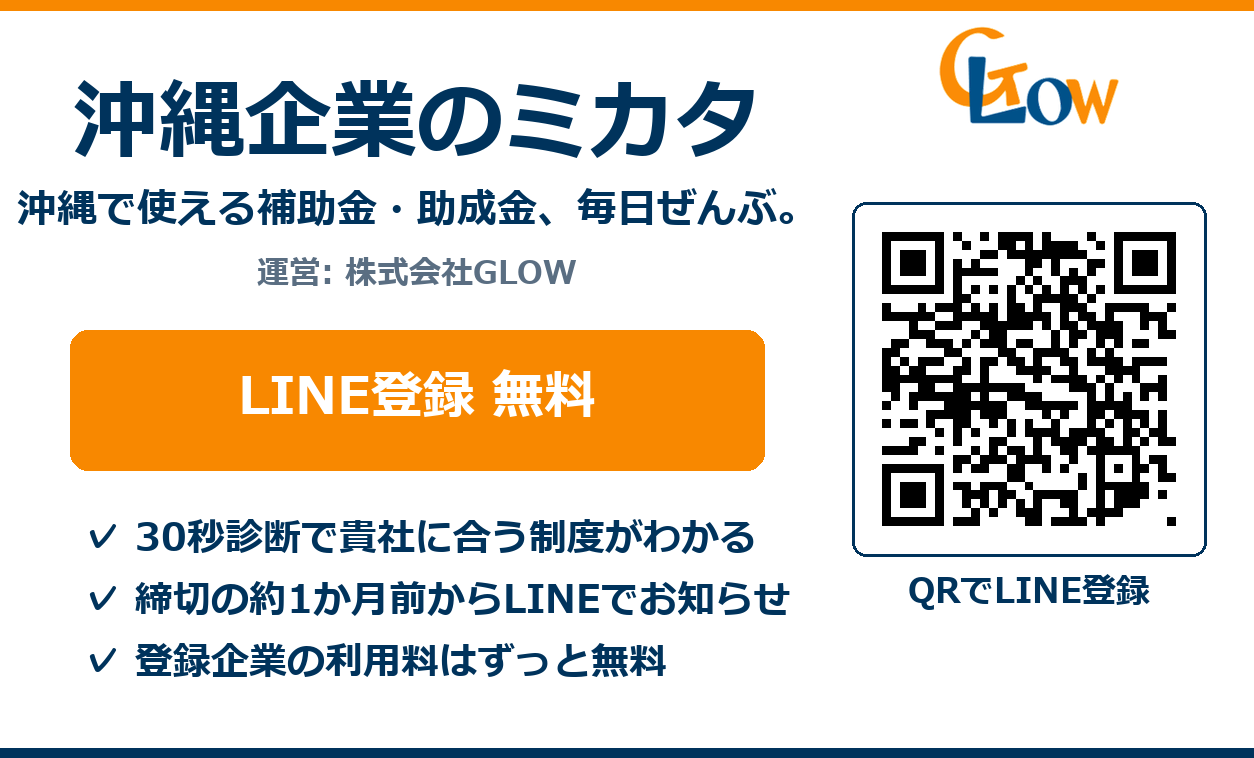
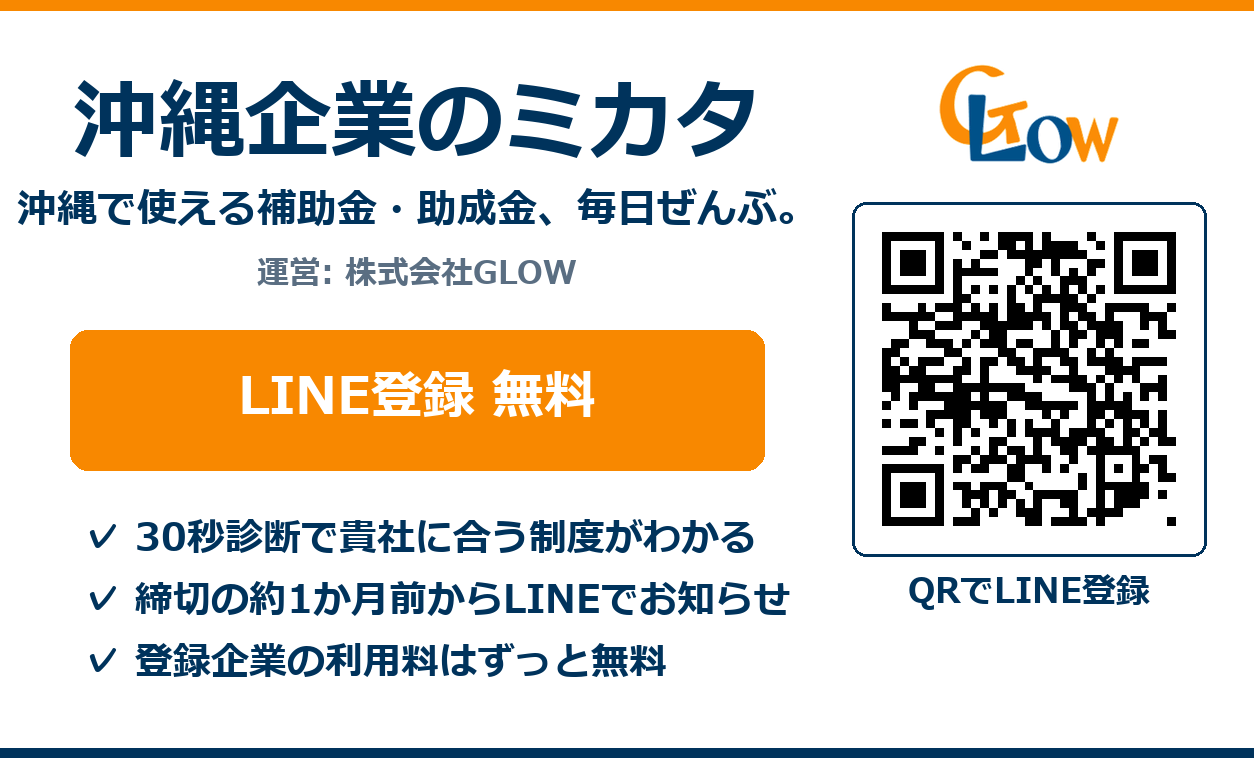
fix: GLOWロゴの位置を下げる(紺版・白版とも/小柳さん指示)

Changed region(s): [[0.7464, 0.0303, 0.9019, 0.2124]]

diff --git a/scripts/generate_card.py b/scripts/generate_card.py
@@ -102,7 +102,7 @@ def card_meishi():
            label, font=f_label, fill=WHITE)
     # GLOWロゴ(光彩つき)をQRの上に
     lg = logo_with_glow(180)
-    im.paste(lg, (int(qr_cx - lg.width / 2), 18), lg)
+    im.paste(lg, (int(qr_cx - lg.width / 2), 52), lg)
     os.makedirs(OUT, exist_ok=True)
     im.save(os.path.join(OUT, "card_meishi.png"))
     print("[ok] card_meishi.png (1254x758 / 91x55mm 350dpi)")
@@ -116,7 +116,7 @@ def card_a6():
     d.rectangle([0, 0, W, 14], fill=ORANGE)
     # GLOWロゴ(光彩つき)を最上部中央に
     lg = logo_with_glow(230)
-    im.paste(lg, (int((W - lg.width) / 2), 34), lg)
+    im.paste(lg, (int((W - lg.width) / 2), 75), lg)
     center(d, "御社が使える補助金、", font(96), 250, W, WHITE)
     center(d, "眠っていませんか?", font(96), 370, W, WHITE)
     center(d, "沖縄で使える補助金・助成金を毎日自動チェック", font(46), 530, W, (200, 214, 228))

diff --git a/scripts/generate_card_white.py b/scripts/generate_card_white.py
@@ -53,7 +53,7 @@ im.paste(qr, (qx, qy))
 label = "QRでLINE登録"; f_l = font(34); qcx = qx + 165
 d.text((qcx - d.textlength(label, font=f_l) / 2, qy + 352), label, font=f_l, fill=NAVY)
 lg = logo(180)
-im.paste(lg, (int(qcx - lg.width / 2), 26), lg)
+im.paste(lg, (int(qcx - lg.width / 2), 64), lg)
 im.save(os.path.join(OUT, "card_meishi_white.png"))
 print("[ok] card_meishi_white.png")
 
@@ -63,7 +63,7 @@ d = ImageDraw.Draw(im)
 d.rectangle([0, 0, W, 14], fill=ORANGE)
 d.rectangle([0, H - 14, W, H], fill=NAVY)
 lg = logo(230)
-im.paste(lg, (int((W - lg.width) / 2), 50), lg)
+im.paste(lg, (int((W - lg.width) / 2), 95), lg)
 center(d, "御社が使える補助金、", font(96), 250, W, NAVY)
 center(d, "眠っていませんか?", font(96), 370, W, NAVY)
 center(d, "沖縄で使える補助金・助成金を毎日自動チェック", font(46), 530, W, SUB)
